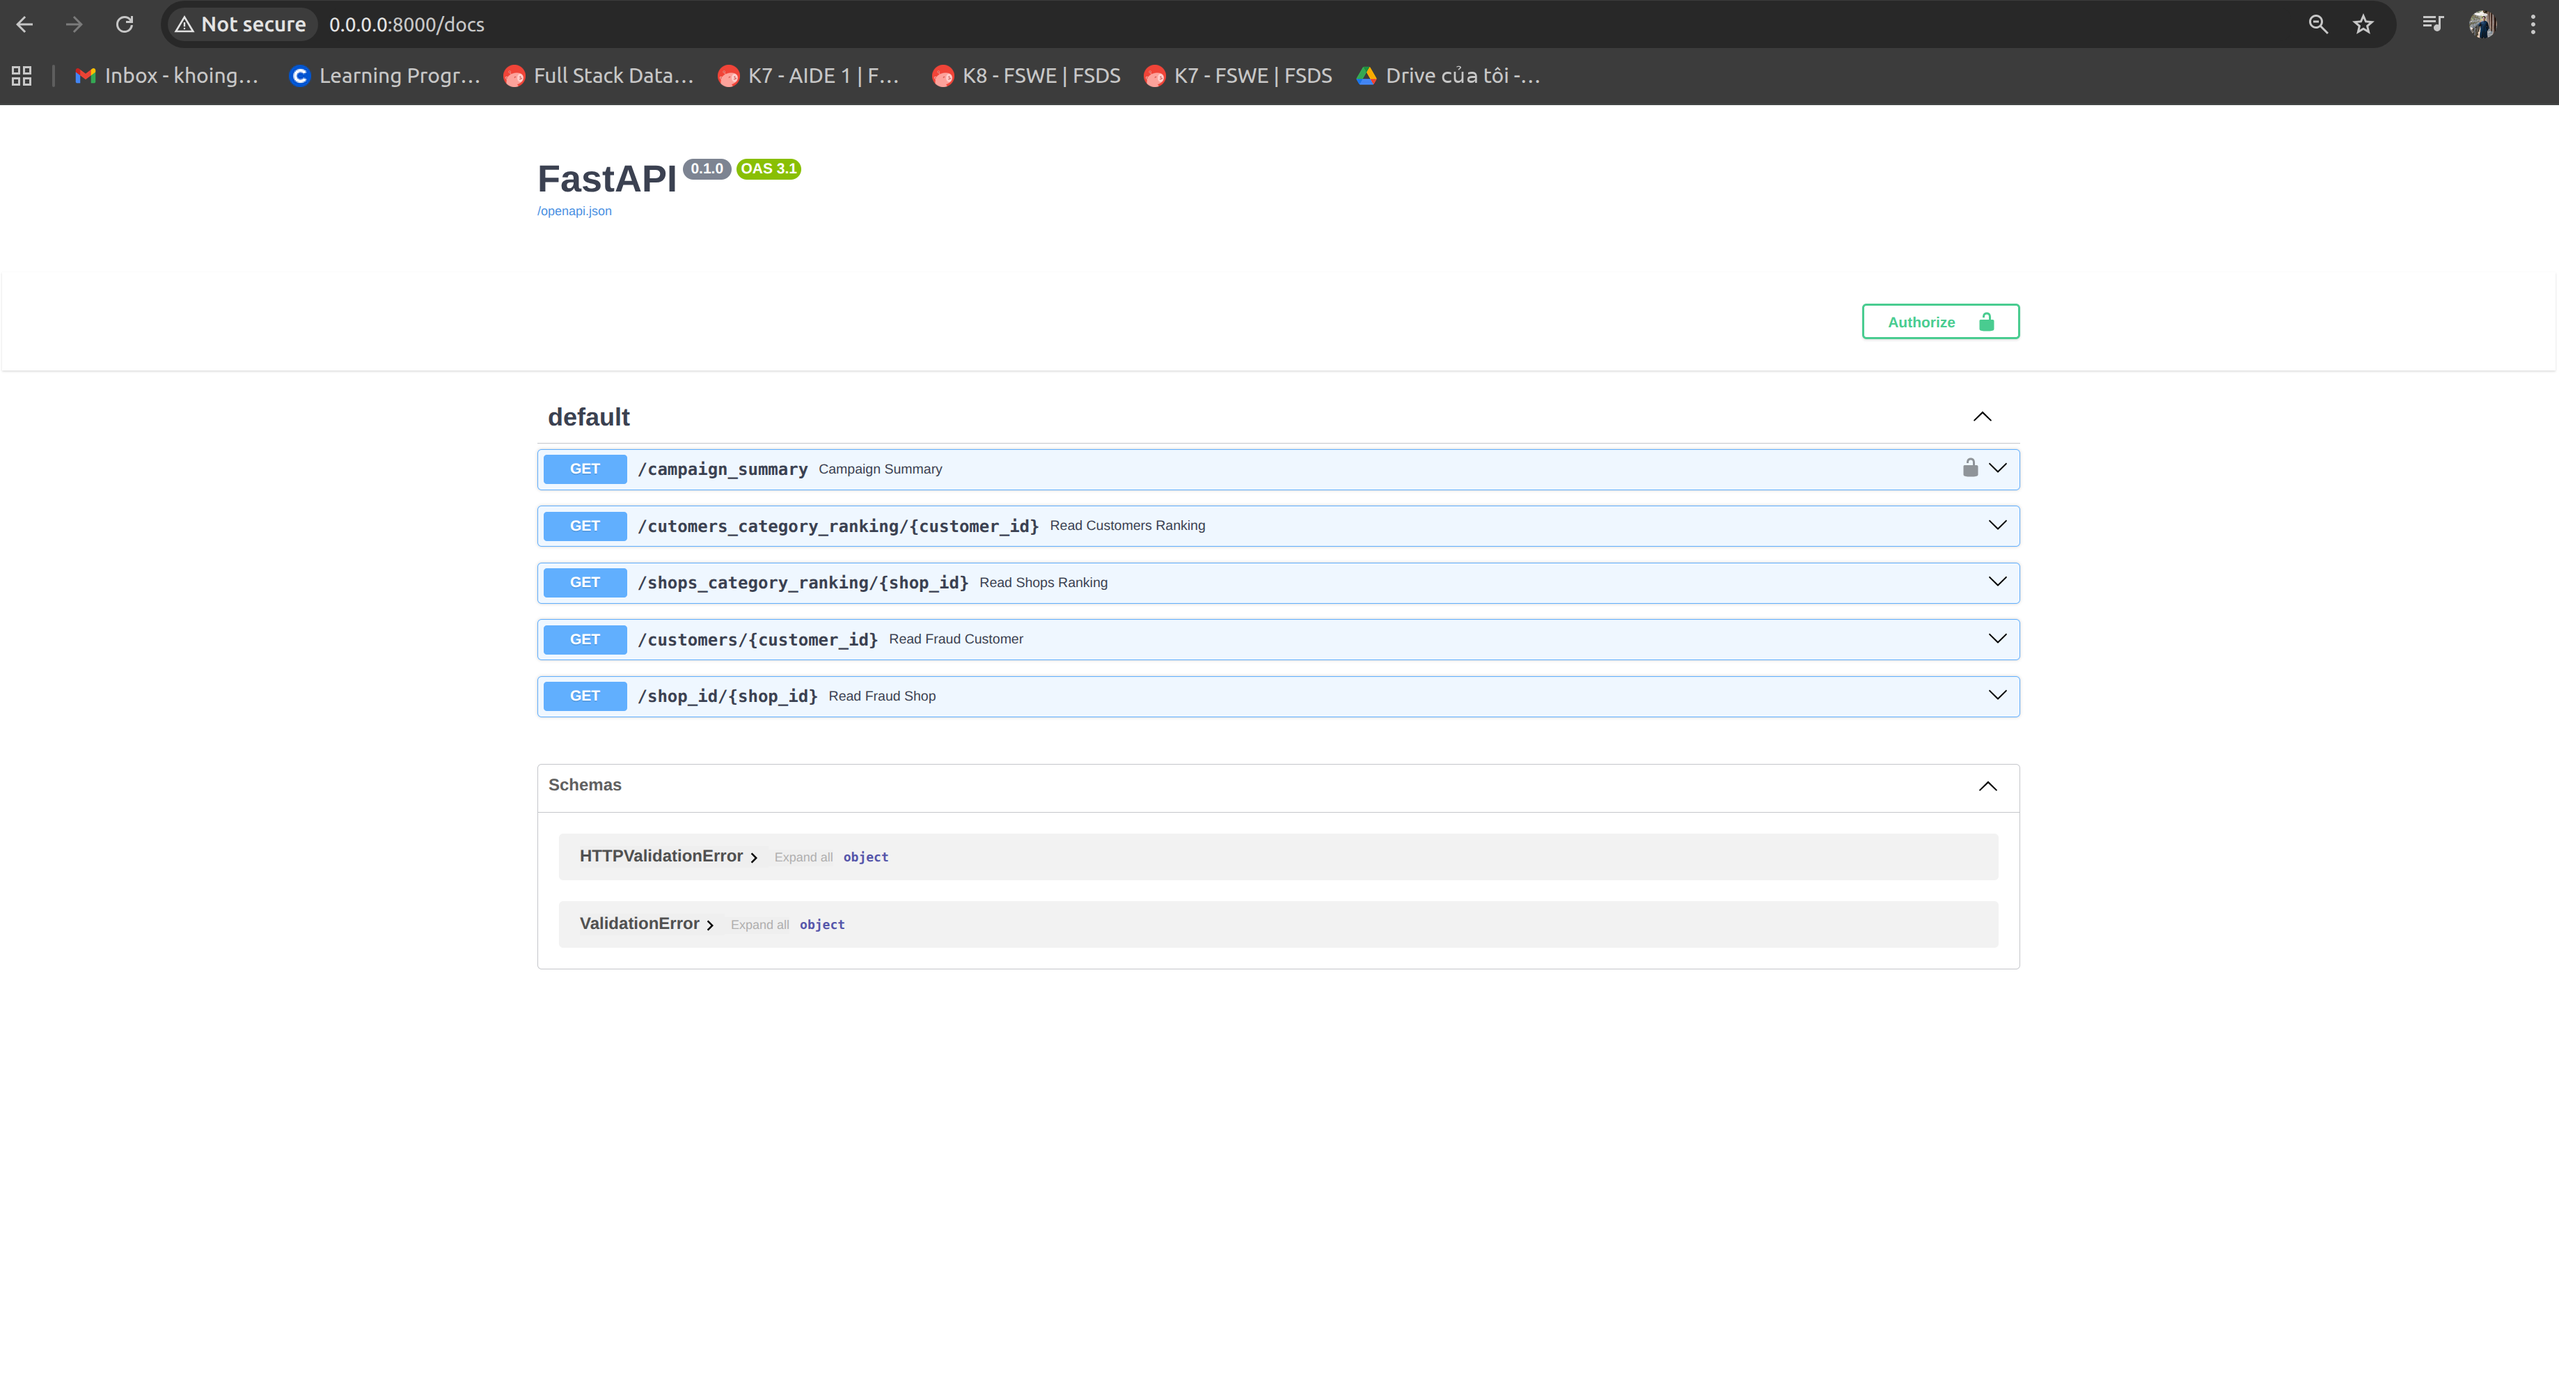
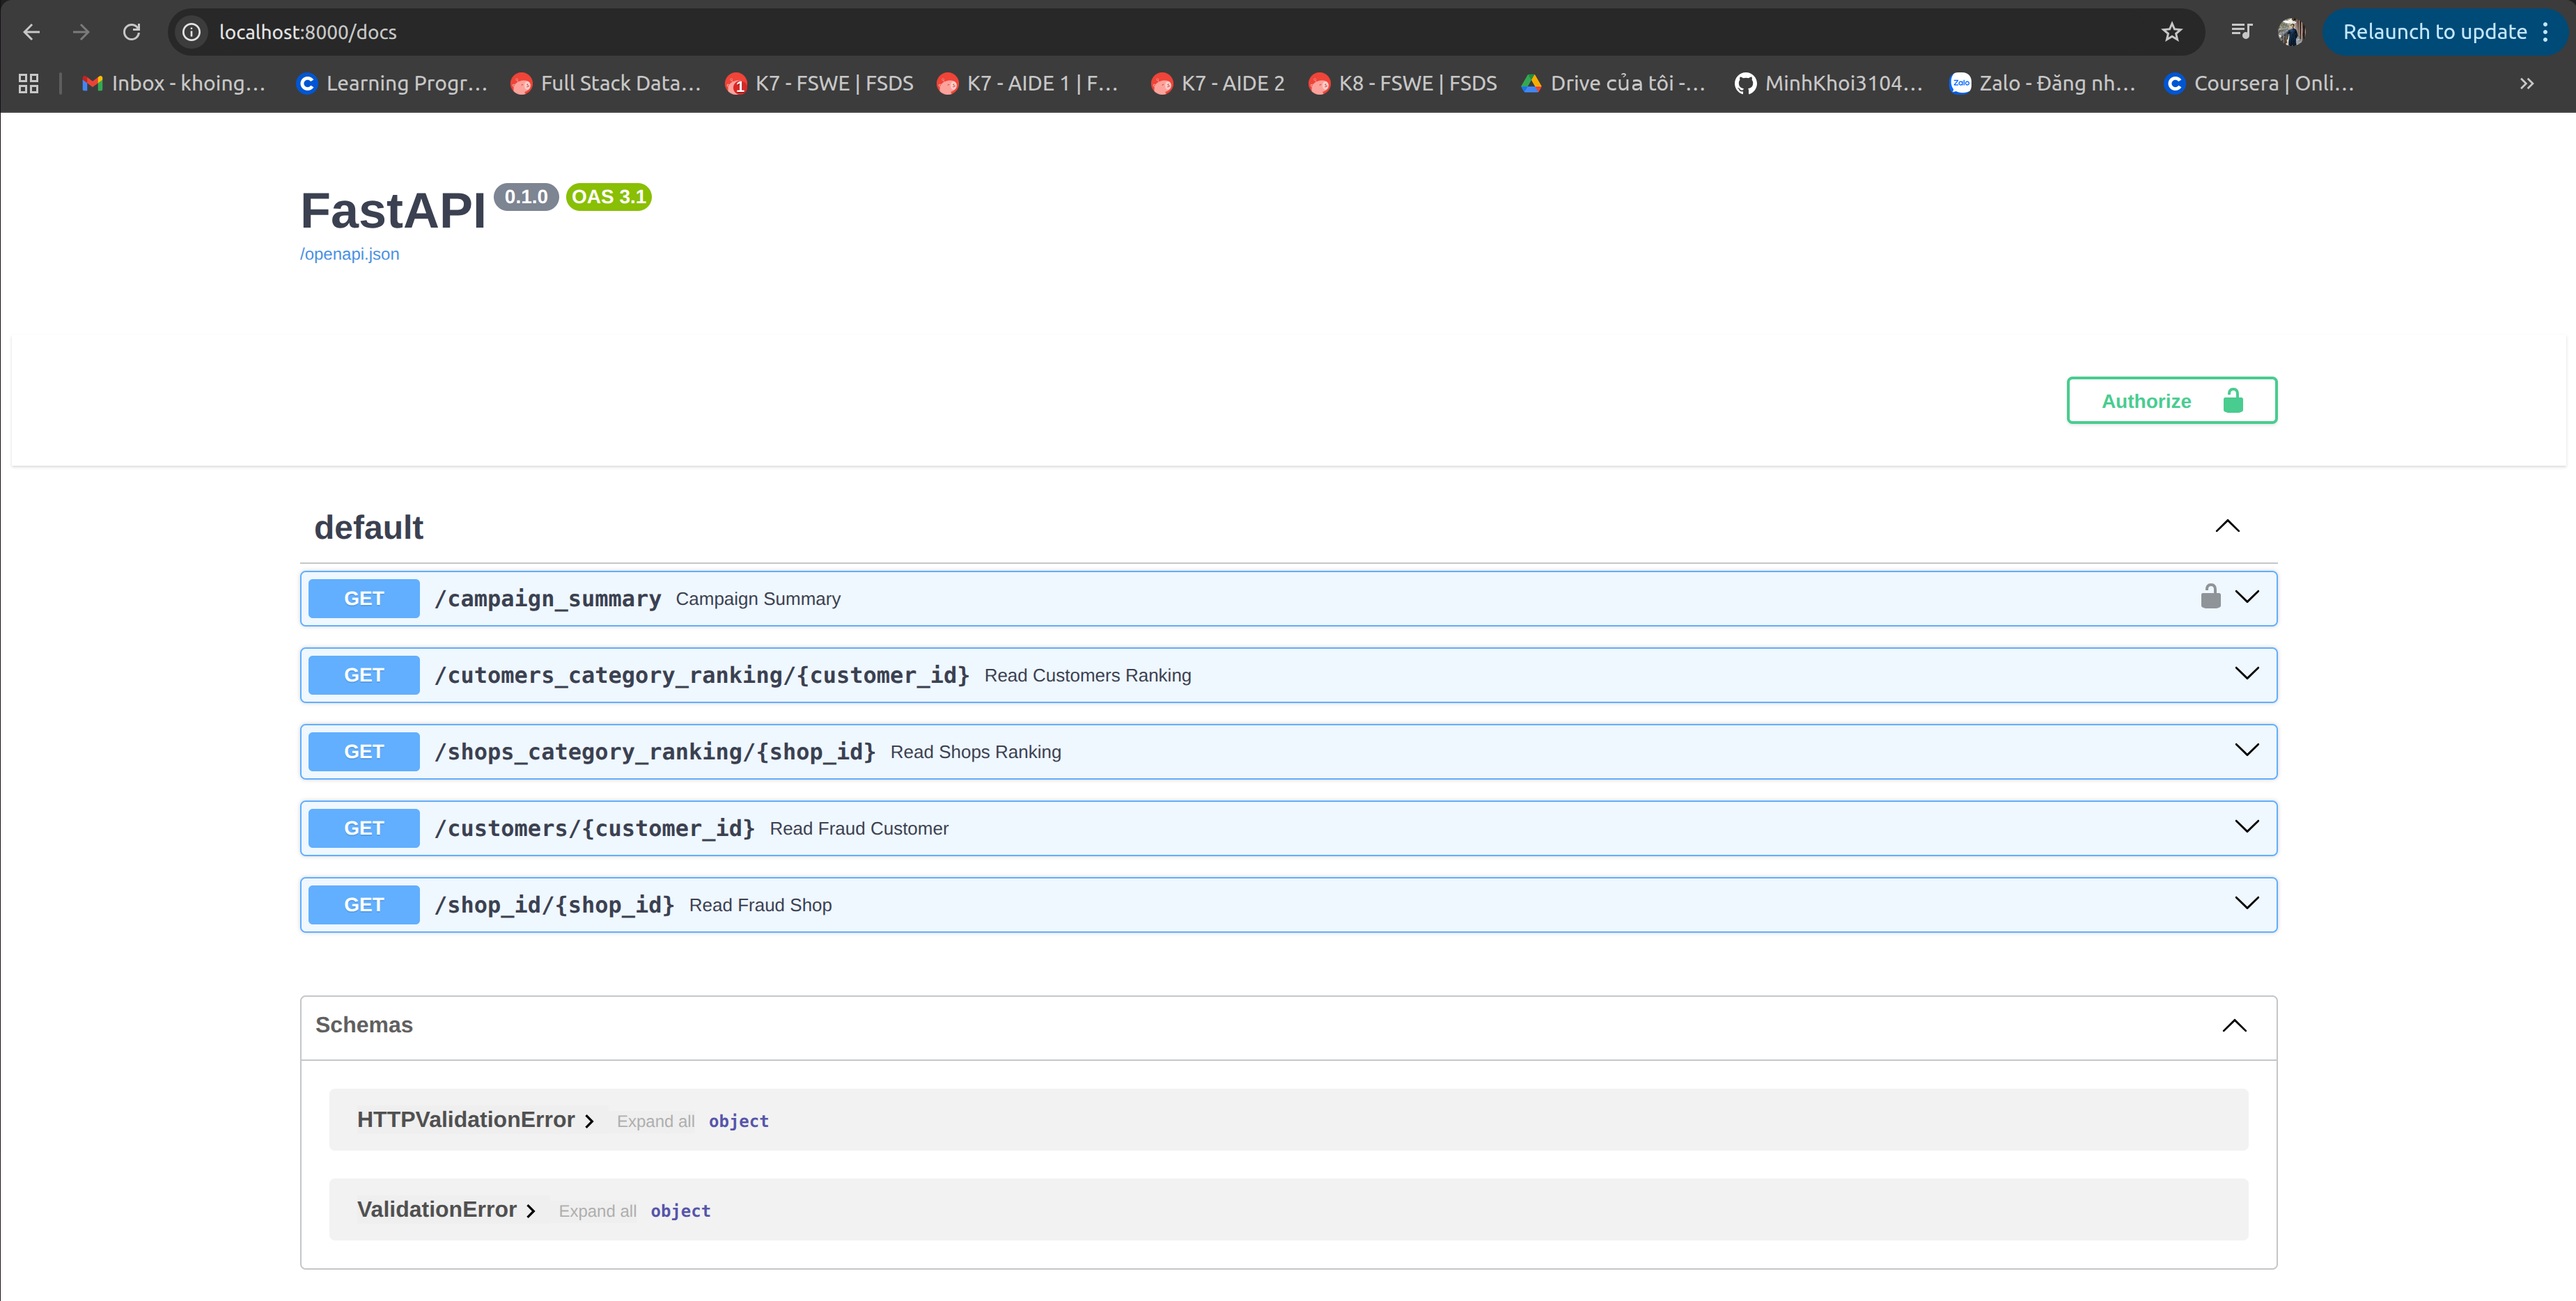
branch:main update readme

diff --git a/README.md b/README.md
@@ -129,7 +129,7 @@ uvicorn main:app --host 0.0.0.0 --port 8000 --reload
 ```
 ![api-success](./image/api-success.png)
 
-- Copy the URL and paste it into your browser, then append /docs (e.g., http://0.0.0.0:8000/docs).
+- Copy the URL (http://localhost:8000/docs) and paste it into your browser.
 
 ![api-docs](./image/api-docs.png)
 
